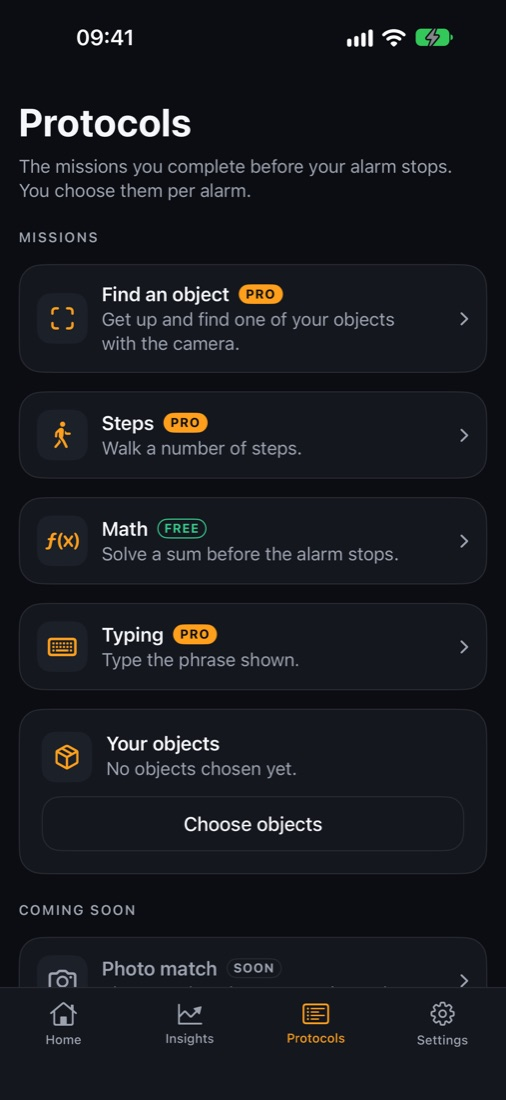
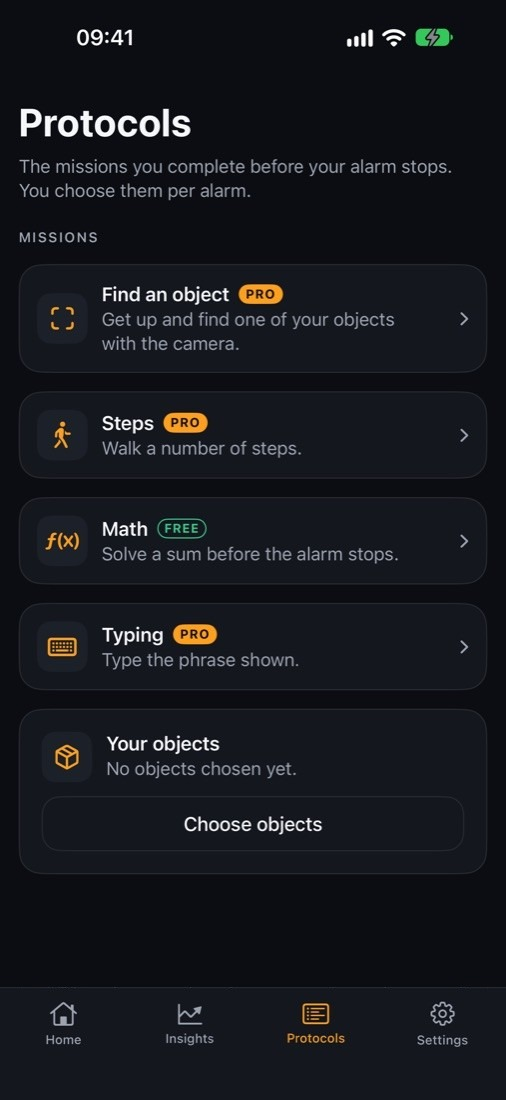
Phones: premium images centred on the main phone with soft edges (no half phones); Pro price line fixed; Protocols screenshot matches 1.0 (no Coming soon)

diff --git a/assets/style.css b/assets/style.css
@@ -125,7 +125,7 @@ a.card:hover{transform:translateY(-3px);border-color:rgba(255,159,28,.35);box-sh
 .plan{position:relative;background:var(--surface);border:1px solid var(--line);border-radius:24px;padding:30px;display:flex;flex-direction:column}
 .plan.pro{border-color:rgba(255,159,28,.45);box-shadow:0 30px 80px -40px rgba(255,159,28,.5)}
 .plan .tag{position:absolute;top:-12px;right:22px;background:var(--grad);color:#0B0D12;font-size:12px;font-weight:700;padding:5px 12px;border-radius:999px}
-.plan h3{font-size:22px}.plan .price{font-size:30px;font-weight:750;margin:14px 0 2px}.plan .price small{font-size:15px;color:var(--muted);font-weight:500}
+.plan h3{font-size:22px}.plan .price{font-size:30px;font-weight:750;margin:14px 0 2px}.plan .price small{font-size:15px;color:var(--muted);font-weight:500;display:inline-block;line-height:1.45}
 .plan .checks{margin-bottom:24px}.plan .pill{margin-top:auto;justify-content:center}
 .fine{color:var(--muted);font-size:13.5px;margin-top:22px}
 
@@ -166,3 +166,13 @@ summary{cursor:pointer;font-weight:600}details p{margin:10px 0 0;color:var(--mut
 .split.wide .art{width:560px;max-width:100%}
 @media (max-width:1180px){.split.wide .art{width:480px}}
 @media (max-width:900px){.art{max-width:520px;margin:0 auto}.split.wide .art{width:100%}}
+/* Phones (22 Oct 2026, Tristan: "halve afbeeldingen"): a narrower window centred on each composition's main phone, soft
+   edges on both sides, so the main phone is always whole and the side phones fade out instead of being cut off. */
+@media (max-width:640px){
+  .art,.art.left{aspect-ratio:840/1500;max-width:300px;
+    --fade-x:linear-gradient(to right,transparent,#000 20%,#000 80%,transparent);--fade-y:linear-gradient(transparent,#000 10%,#000 90%,transparent)}
+  .art img[src*="-hero"]{object-position:87.5% 50%}
+  .art img[src*="-wake"]{object-position:86.3% 50%}
+  .art img[src*="-sleep"]{object-position:37.8% 50%}
+  .art img[src*="-insights"]{object-position:91.7% 50%}
+}
